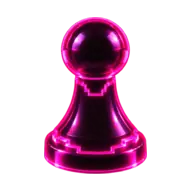
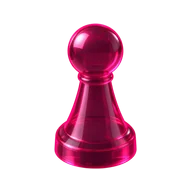
feat: generate arcade pawn and dice sprites

Changed region(s): [[0.2188, 0.0625, 0.7812, 0.9062]]

diff --git a/docs/design/game-art-fidelity-ledger.md b/docs/design/game-art-fidelity-ledger.md
@@ -260,3 +260,22 @@ Contact-sheet order is marble-1 through marble-6, then seed-1 through seed-6. By
 Stage remains `generation-batches`: 91 completed custom records, 17 `generationPending` custom records, and nine unchanged `authorityReferencePending` quarter slots. All 117 production sprites total 855,300 bytes; the largest remains the inherited 17,732-byte Arcade Hangman stage 6, below the 2 MiB total and 64 KiB per-file limits.
 
 Only these twelve records, sources, finals, and four QA sheets belong to this batch. No catalog, registry, validator, dependency, authoring helper, runtime integration, or gameplay change was needed, and this inspection does not claim a fresh browser gameplay audit.
+
+## Task 2L Arcade pawns and dice -- 2026-10-04
+
+Accepted ten distinct Arcade production sprites after thirteen separate built-in image-generation calls using the exact frozen manifest prompts. The first magenta pawn was rejected for collar/base proportions that drifted from the family silhouette. Two d10 candidates were rejected because their facet structures did not read unambiguously as a pentagonal trapezohedron; the accepted third d10 call has two pole vertices and ten readable kite faces. No rejected output entered the repository. There was no CLI/API fallback, reference-image input, sheet generation, cross-role reuse, or fabricated provenance.
+
+| Inspection | Evidence and result |
+| --- | --- |
+| Original sources | All thirteen generated 1254x1254 true-alpha PNGs were inspected at native dimensions through their built-in inline display after direct `view_image` failed because bubblewrap is unavailable. Alpha and geometry measurements use the untouched PNGs. The ten accepted repository sources are byte-identical to their selected built-in originals. Source preparation removed only 59-687 detached sub-5% alpha pixels in memory without rewriting stored PNGs or removing meaningful object pixels. |
+| Pop & Race pawns | Four complete upright dark-translucent molded-plastic pawns share spherical heads, tapered bodies, broad circular feet, a front three-quarter camera, normalized scale, and upper-left light. Magenta, cyan, green, and yellow ownership colors remain unmistakable; solid centers and restrained rims preserve their shape without depending on glow. |
+| Dice | Six complete cyan dark-translucent polyhedra are distinctly recognizable as d4 tetrahedron, d6 cube, d8 octahedron, d10 pentagonal trapezohedron, d12 dodecahedron, and d20 icosahedron. Every face is blank and unobstructed; no numeral, pip, letter, glyph, inscription, logo, diagram, extra die, ambiguous extra geometry, or ground plane appears. |
+| Production-size light/dark | [Light](qa/arcade-pawns-dice-full-light.webp) and [dark](qa/arcade-pawns-dice-full-dark.webp) sheets show the exact ten final WebPs in 256px cells. Complete silhouettes, ownership colors, solid bodies, restrained neon rims, camera/light consistency, and facet geometry remain clear on both backgrounds, with no opaque box, checkerboard, text, watermark, clipping, meaningful edge contact, muddy alpha, or extra object. |
+| Phone-size readability | [Light](qa/arcade-pawns-dice-phone-light.webp) and [dark](qa/arcade-pawns-dice-phone-dark.webp) 64px-cell sheets preserve all four pawn colors and the six distinct die silhouettes without relying on bloom or glow. |
+| Alpha, geometry and budget | Every final has genuine alpha, transparent corners, no edge contact, one meaningful component containing 100% of connected foreground, 76.04% pawn / 76.17% die longest-bound fill, and at least 11.72% padding. Batch finals total 93,902 bytes; largest batch final is 12,806 bytes. Accepted sources total 8,533,002 bytes and remain outside the runtime budget. |
+
+Contact-sheet order is pawn-1 through pawn-4, then d4, d6, d8, d10, d12, d20. Byte-identical source checks passed 10/10; deterministic no-write exact-asset normalization reproduced 10/10 finals; fresh deterministic sheet regeneration reproduced all four QA sheets byte-for-byte.
+
+Stage remains `generation-batches`: 101 completed custom records, seven `generationPending` custom records, and nine unchanged `authorityReferencePending` quarter slots. All 117 production sprites total 872,134 bytes; the largest remains the inherited 17,732-byte Arcade Hangman stage 6, below the 2 MiB total and 64 KiB per-file limits.
+
+Only these ten records, sources, finals, and four QA sheets belong to this batch. No catalog, registry, validator, dependency, authoring helper, runtime integration, gameplay, or deployment change was needed, and this inspection does not claim a fresh browser gameplay audit.
